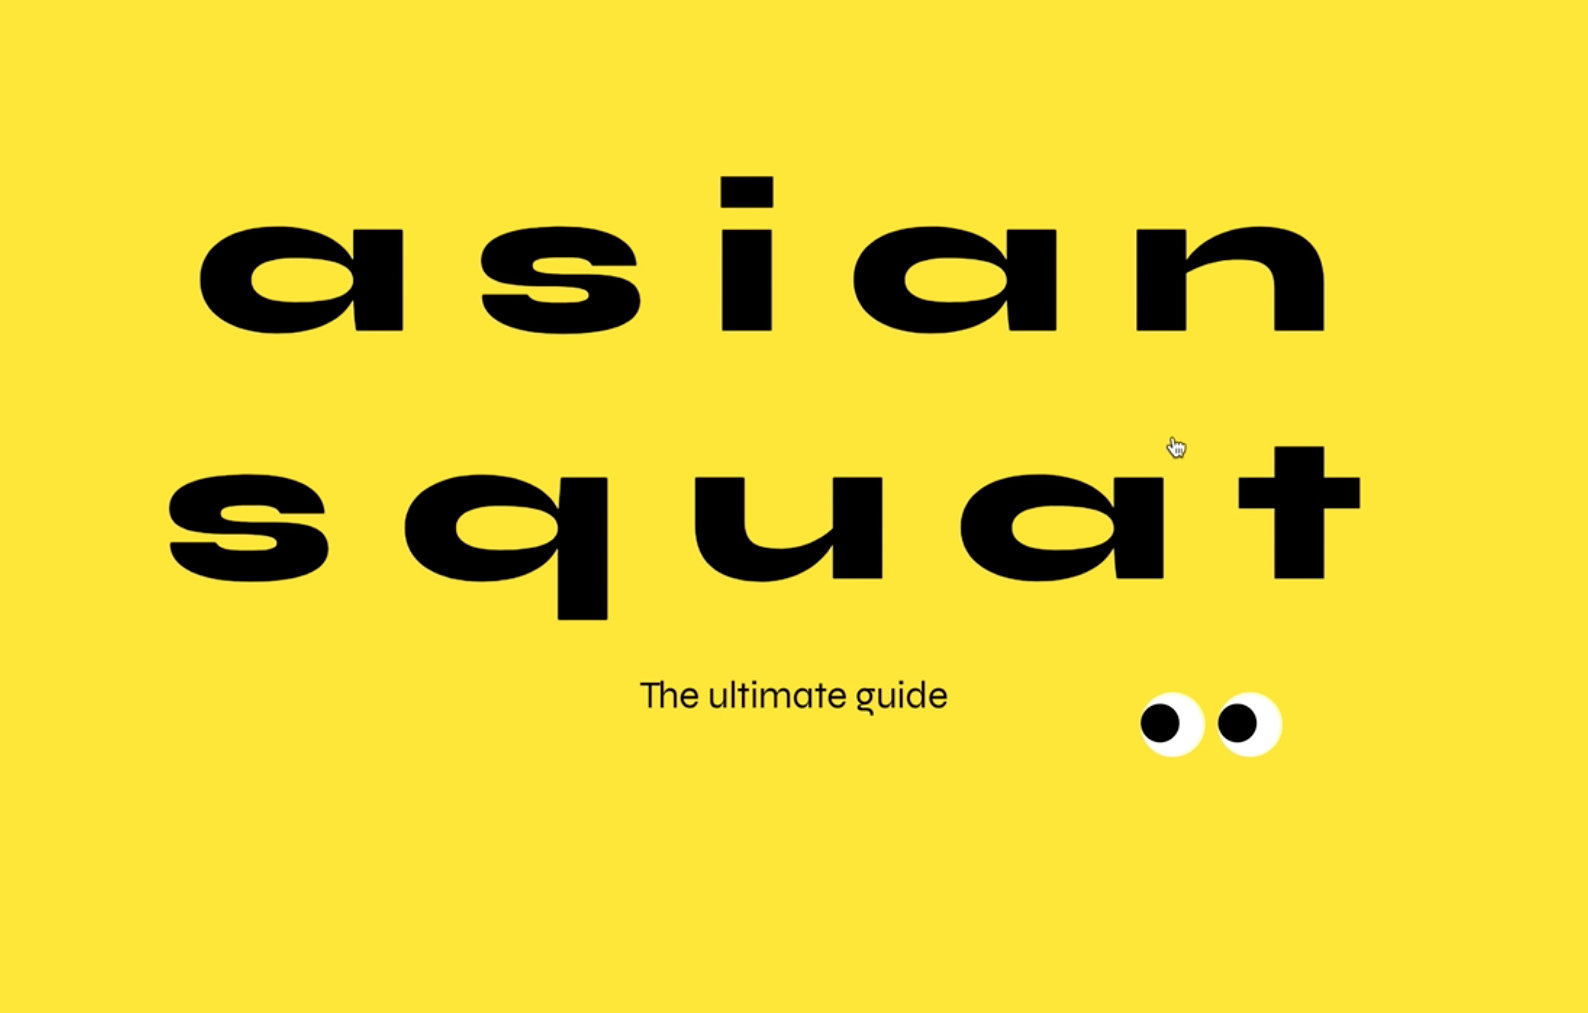
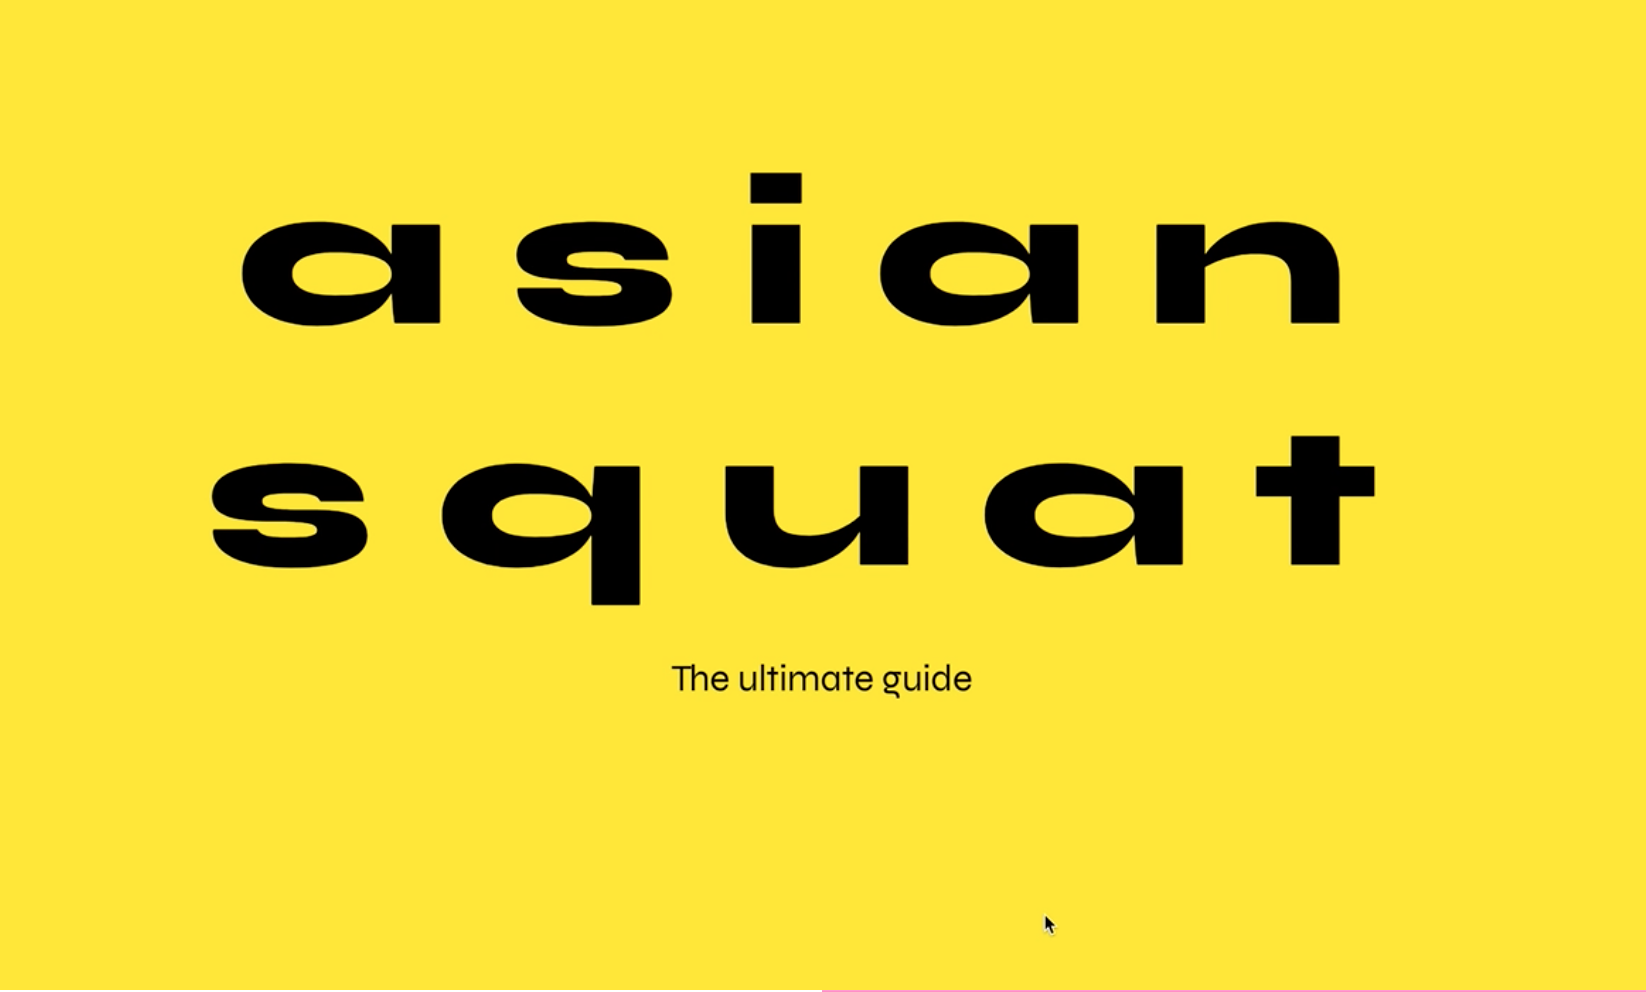
changed cover images on vimmerby and canvas

diff --git a/index.html b/index.html
@@ -63,8 +63,8 @@
       </div>
       
       <div class="four">
-        <a href="https://tortmagazine.com" class="link">
-          <video loop preload="none" src="videos/tort.mov" type="video/mp4" width=100%>
+        <a href="https://tortmagazine.com">
+          <video loop preload="none" src="videos/tort.mov" type="video/mp4" width=100% height=100%>
           Your browser does not support the video tag.
           </video>
         </a>
@@ -99,7 +99,7 @@
       <div class="ten" id="ten"></div>
       
       <div class="eleven" id="canvas">
-        <a href="http://canvas-magazine-29.superhi.com/" class="link">
+        <a href="http://canvas-magazine-29.superhi.com/">
           <video loop preload="none" src="videos/canvas.mov" type="video/mp4" width=100% height=100%>
             Your browser does not support the video tag.
           </video>
@@ -112,14 +112,14 @@
       </div>
       
       <div class="thirteen" id="wanderers">
-        <a href="https://wanderers-28.superhi.com/" class="link">
+        <a href="https://wanderers-28.superhi.com/">
           <video loop preload="none" src="videos/wanderers.mov" type="video/mp4" width=100% height=100%>
             Your browser does not support the video tag.
             </video>
         </a>
       </div>
       <div class="fourteen" id="asiansquat">
-        <a href="https://leekallman.github.io/asiansquat/" class="link">
+        <a href="https://leekallman.github.io/asiansquat/">
           <video loop preload="none" src="videos/asiansquat.mov" type="video/mp4" width=100% height=100%>
             Your browser does not support the video tag.
             </video>        
@@ -144,7 +144,7 @@
         </div>
         
         <div class="sixteen" id="vimmerby">
-          <a href="http://vimmerbystugby.se/" class="link">
+          <a href="http://vimmerbystugby.se/">
             <video loop preload="none" src="videos/vimmerby.mov" type="video/mp4" width=100% height=100%>
               Your browser does not support the video tag.
               </video>
@@ -152,16 +152,16 @@
         </div>
         
         <div class="seventeen" id="seventeen">
-          <a href="https://leekallman.github.io/tortmagazine-v1/" class="link">
-            <video loop preload="none" src="videos/tort-v1.mov" type="video/mp4" width=100%>
+          <a href="https://leekallman.github.io/tortmagazine-v1/">
+            <video loop preload="none" src="videos/tort-v1.mov" type="video/mp4" width=100% height=100%>
               Your browser does not support the video tag.
               </video>
           </a>
         </div>
         
         <div class="eighteen" id="southside">
-          <a href="http://southside19.com/" class="link">
-            <video loop preload="none" src="videos/southside.mov" type="video/mp4" width=100%>
+          <a href="http://southside19.com/">
+            <video loop preload="none" src="videos/southside.mov" type="video/mp4" width=100% height=100%>
             Your browser does not support the video tag.
             </video>
           </a>

diff --git a/style.css b/style.css
@@ -107,8 +107,10 @@ video{
     grid-column: 1/5;
     grid-row:3;
     background-image: url('images/tort.png');
-    background-size: 100%;
-    object-fit: cover;
+    background-size: 100% 100%;
+    background-position: center center;
+    background-repeat: no-repeat;
+    width: 100%;
 }
 .five{
     grid-column: 1/5;
@@ -142,10 +144,9 @@ video{
     grid-row:9;
     background-image: url('images/canvas.svg');
     background-color: #73C4D8;
-    background-size: 100% 99%;
-    background-position-y: center;
-    background-position-x: center;
+    background-size: 100% 100%;
     background-repeat: no-repeat;
+    width: 100%;
 }
 .twelve{
     grid-column: 1/5;
@@ -157,17 +158,19 @@ video{
     grid-row:11;
     background-color: black;
     background-image: url('images/wanderers.png');
-    background-size: 100% 99%;
-    background-position-x: center;
+    background-size: 100% 100%;
     background-repeat: no-repeat;
+    width: 100%;
+    height:100%;
 }
 .fourteen{
     grid-column: 1/5;
     grid-row:12;
     background-image: url('images/asiansquat.png');
-    background-size: 100% 99%;
+    background-size: 100% 100%;
     background-position-x: center;
     background-repeat: no-repeat;
+    width: 100%;
 }
 .fifthteen{
     grid-column: 1/5;
@@ -177,28 +180,24 @@ video{
     grid-column: 1/5;
     grid-row:13;
     background-image: url('images/VimmerbyStugby.svg');
-    background-position-y: center;
-    background-position-x: center;
     background-repeat: no-repeat;
-    background-size: 100% 99%;
+    background-size: 100% 100%;
 }
 .seventeen{
     grid-column: 1/5;
     grid-row:14;
-    background-image: url('images/tort-v1.png');
-    background-size: 100% 99%;
-    background-position-x: center;
-    background-repeat: no-repeat; 
+    background-image: url('images/tort-v1.svg');
+    background-size: 100% 100%;
+    background-repeat: no-repeat;
+    width: 100%;
 }
-
 .eighteen{
     grid-column: 1/5;
     grid-row:15;
     background-image: url('images/southside.png');
-    /* background-size:cover; */
-    background-position-x: center;
+    background-size: 100% 100%;
     background-repeat: no-repeat;
-    background-size: 100% 99%;
+    width: 100%;
 }
 
 /* book */

diff --git a/js/canvas.js b/js/canvas.js
@@ -1,12 +1,3 @@
-window.addEventListener('resize', resizeCanvas, false);
-
-function resizeCanvas() {
-    mysketch01.width = eight.offsetWidth;
-    mysketch01.height = eight.offsetHeight;
-    mysketch02.width = ten.offsetWidth;
-    mysketch02.height = ten.offsetHeight;
-}
-
 // sketch01
 const eight = document.querySelector('.eight');
 
@@ -15,17 +6,16 @@ var sketch01 = function(a) {
     a.setup = function() {
         let w = eight.offsetWidth;
         let h = eight.offsetHeight;
+        a.pixelDensity(1);
         a.createCanvas(w, h);
         
         graphics = a.createGraphics(w, h);
         graphics.fill('#fff');
         graphics.textFont('futura');
         graphics.textAlign(a.CENTER, a.CENTER);
-        graphics.textSize(200);
         graphics.textSize(w);
         graphics.text('a', w/2, h/2);
     };
-    
     a.draw = function() {
         a.background("#000");
         a.tileSize = 50;
@@ -48,6 +38,9 @@ var sketch01 = function(a) {
             };
         };
     };
+    a.windowResized = function() { 
+        a.resizeCanvas(eight.offsetWidth, eight.offsetHeight);
+    };
 };
 var mysketch01 = new p5(sketch01, 'eight');
 
@@ -61,6 +54,7 @@ let graphics3;
 
 var sketch02 = function (b) {    
     b.setup = function(){
+        b.pixelDensity(1);
         b.createCanvas(w1, h1);
         
         graphics2 = b.createGraphics(w1, h1);
@@ -87,6 +81,9 @@ var sketch02 = function (b) {
 
         b.copy(graphics2, -100, 0, 600, 250, 0, 0, 250 + val, 250)
         b.copy(graphics3, 0, 0, 600, 250, 250 + val, 0, 250 - val, 250)
+    };
+    b.windowResized = function() { 
+        b.resizeCanvas(ten.offsetWidth, ten.offsetHeight); 
     };
 };
 var mysketch02 = new p5(sketch02, 'ten');
